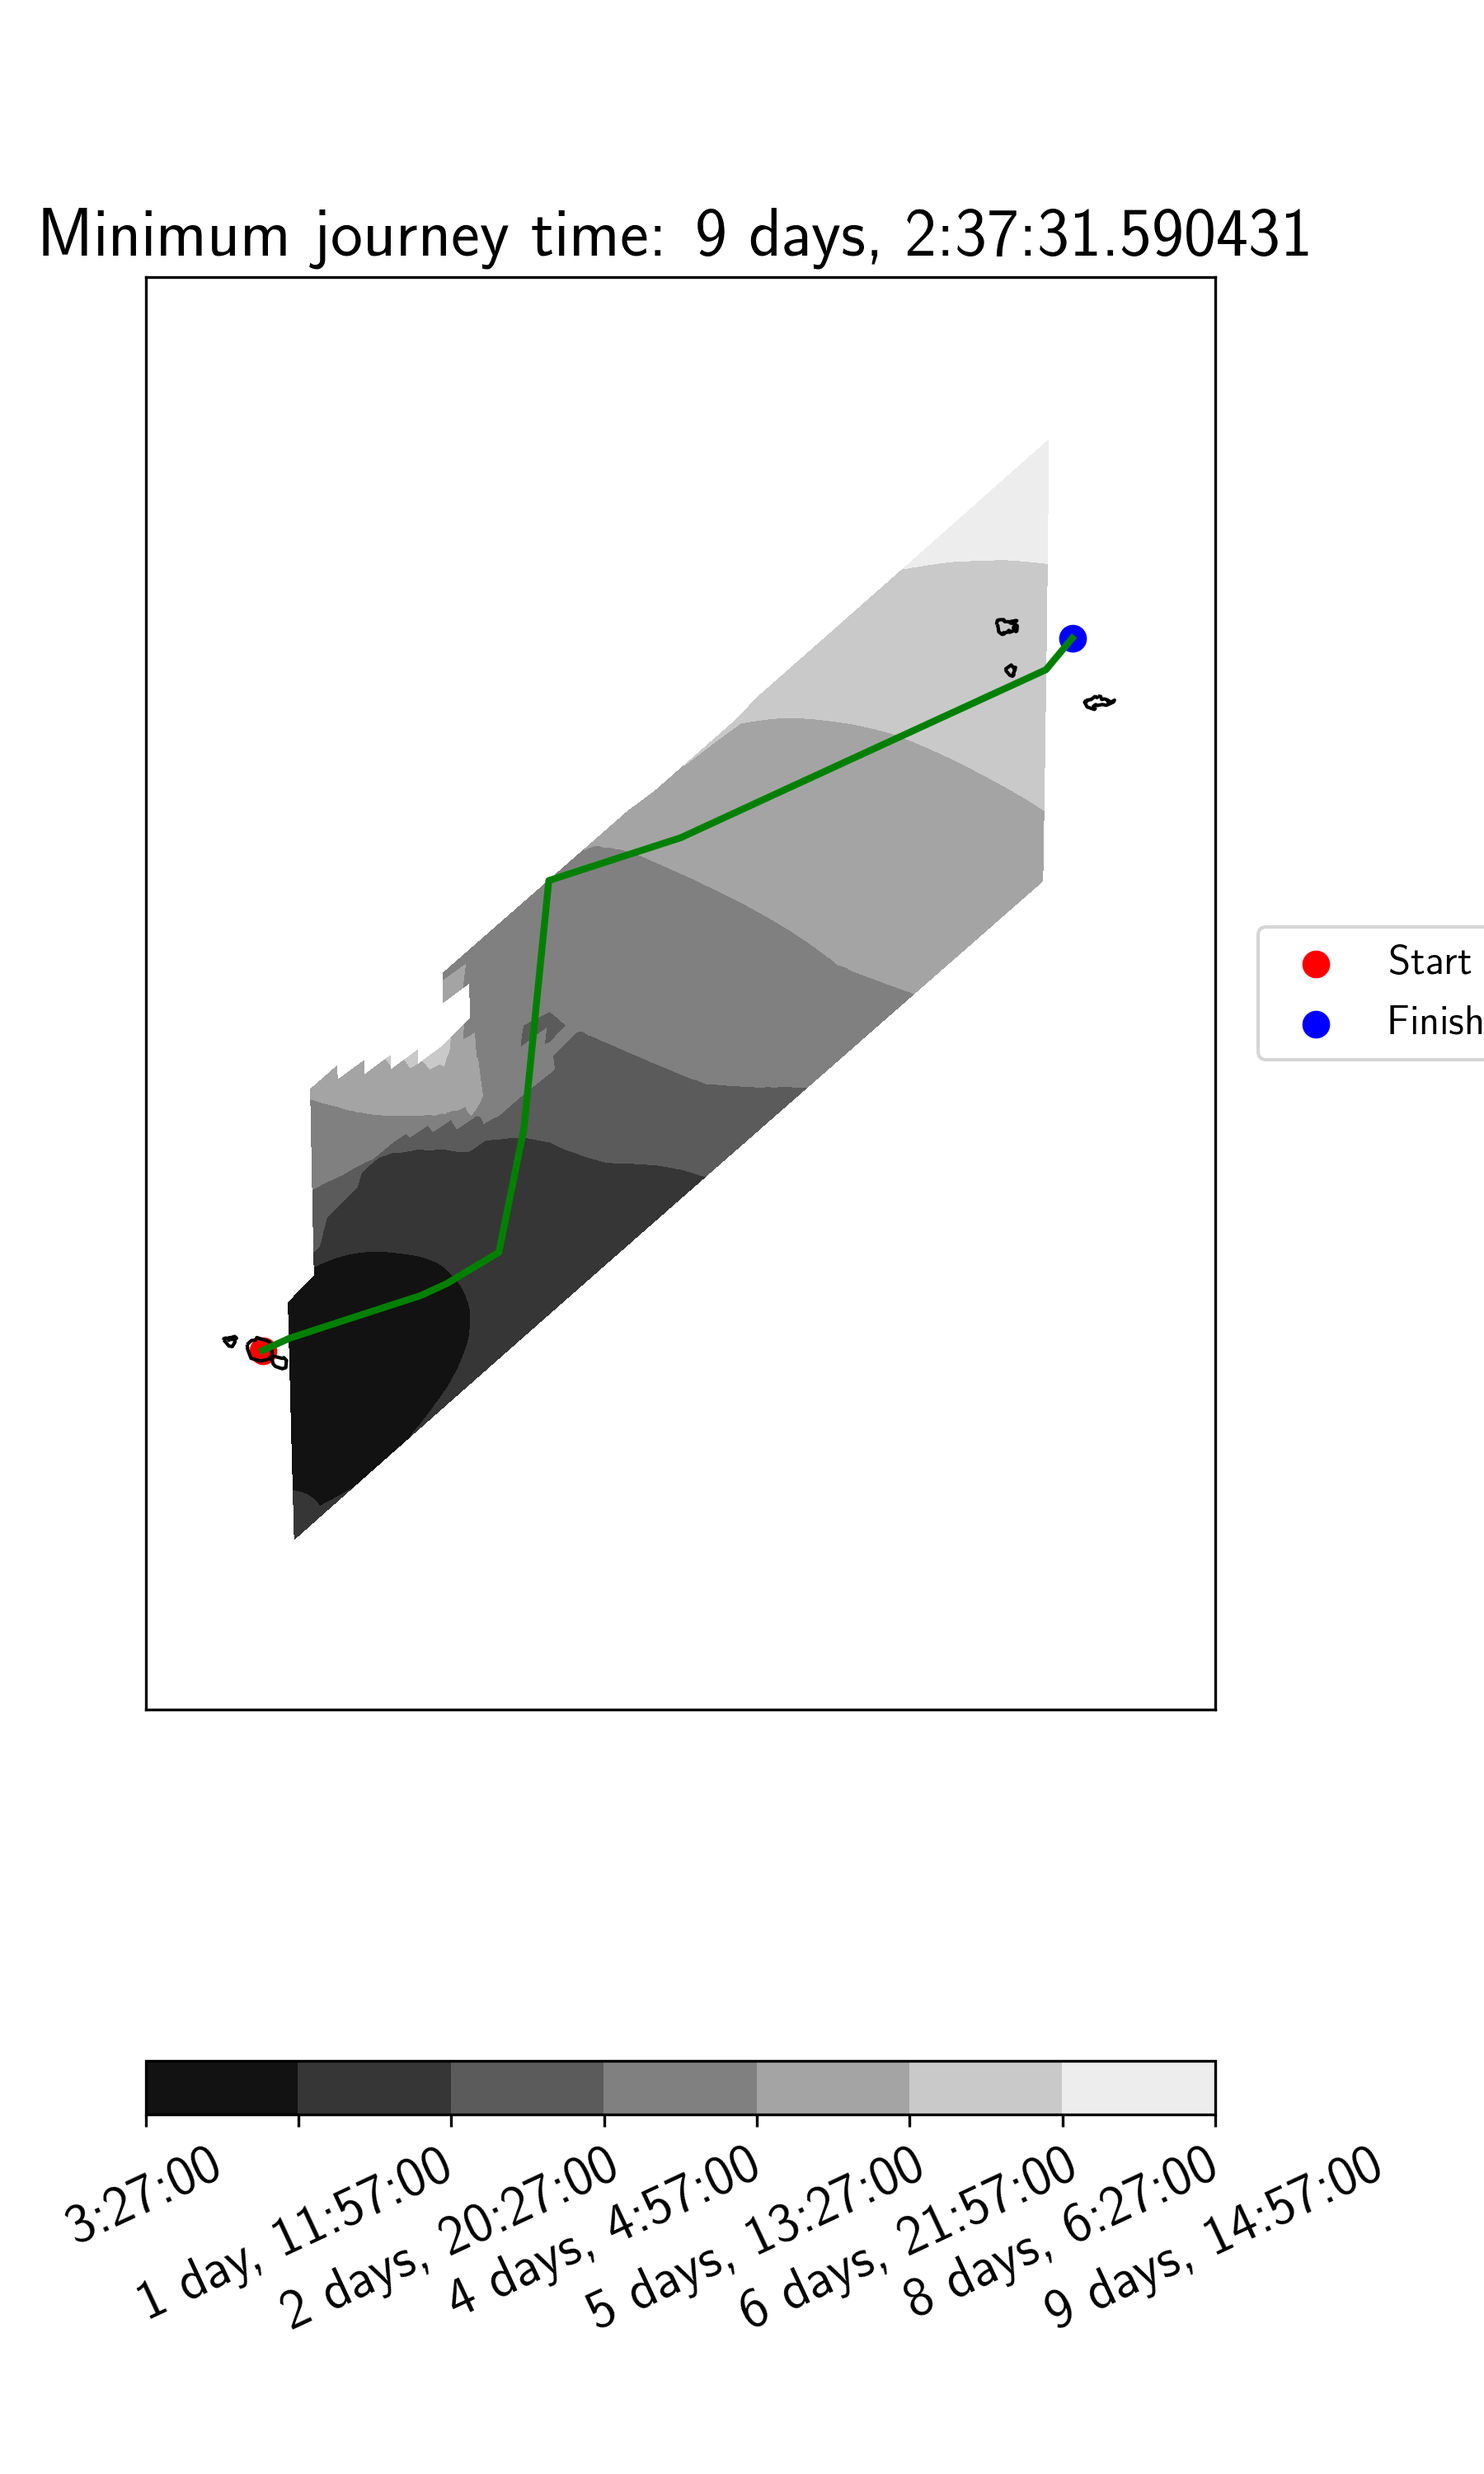
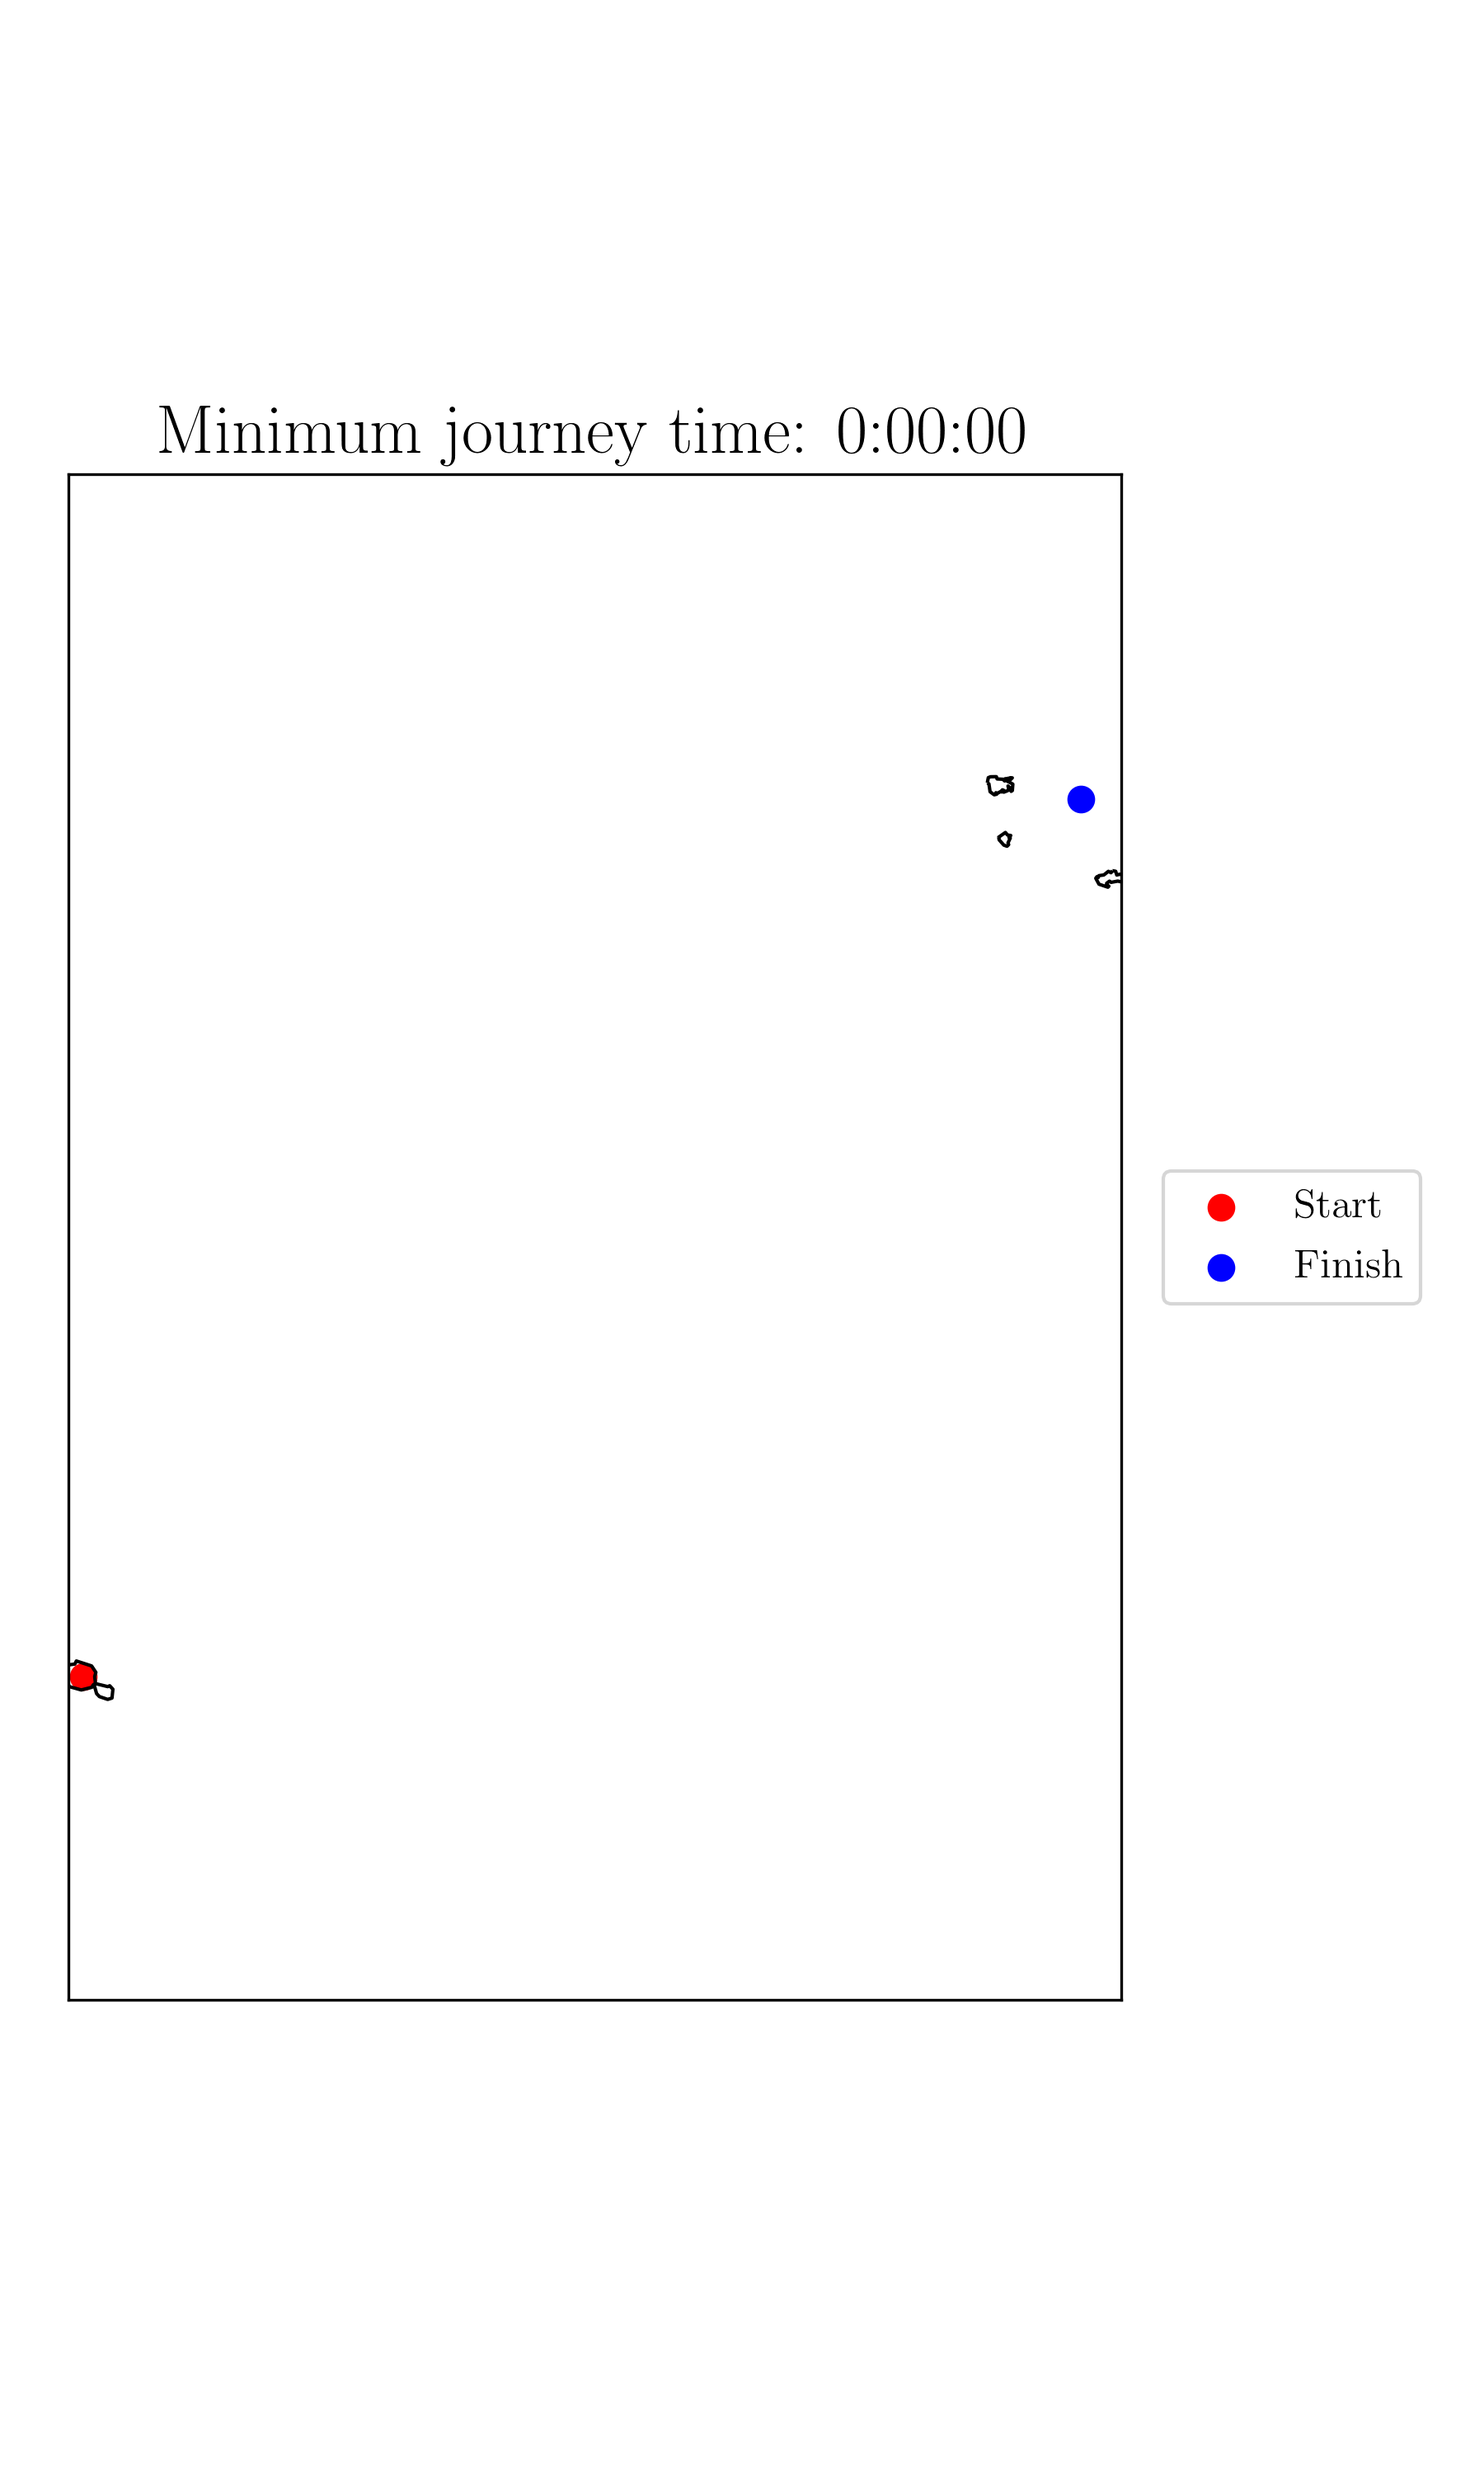
working failure function

diff --git a/sail_route/sail_routing.py b/sail_route/sail_routing.py
@@ -11,6 +11,10 @@ import datetime
 from datetime import datetime
 from datetime import timedelta
 import warnings
+# import numba
+#
+# cache = numba.caching.NullCache()
+# cache.flush()
 
 from mpl_toolkits.basemap import Basemap
 import matplotlib.pyplot as plt
@@ -23,14 +27,15 @@ from sail_route.weather.weather_assistance import return_domain, \
 warnings.filterwarnings("ignore")
 
 
-def recompile_nb_code():
-    this_module = sys.modules[__name__]
-    module_members = inspect.getmembers(this_module)
-
-    for member_name, member in module_members:
-        if hasattr(member, 'recompile') and hasattr(member, 'inspect_llvm'):
-            member.recompile()
-recompile_nb_code()
+# def recompile_nb_code():
+#     this_module = sys.modules[__name__]
+#     module_members = inspect.getmembers(this_module)
+#
+#     for member_name, member in module_members:
+#         if hasattr(member, 'recompile') and hasattr(member, 'inspect_llvm'):
+#             member.recompile()
+#
+# recompile_nb_code()
 
 
 plt.rcParams['savefig.dpi'] = 300
@@ -84,7 +89,6 @@ def min_time_calculate(route, time, craft, x, y,
     wh_interp = setup_interpolator(wh)
     wp_interp = setup_interpolator(wp)
     journey_time = 10**10
-    stop_r = 0
     for i in range(route.n_width):
         i_tws = tws_interp([x[0, i], y[0, i], time]).data
         i_twd = twd_interp([x[0, i], y[0, i], time]).data
@@ -96,7 +100,7 @@ def min_time_calculate(route, time, craft, x, y,
                                         x[0, i], y[0, i],
                                         i_tws, i_twd,
                                         i_wd, i_wh, i_wp,
-                                        craft, stop_r)
+                                        craft)
         if (travel_time == np.inf) | (land[0, i] is True):
             pass
         else:
@@ -116,7 +120,6 @@ def min_time_calculate(route, time, craft, x, y,
                 i_twd = twd_interp([x[i, j], y[i, j], time]).data
                 lifetime = utime - time
                 for k in range(route.n_width):
-                        stop_r = 0
                         if land[i+1, k] is True:
                             earl_time[i+1, k] == np.inf
                         else:
@@ -127,7 +130,6 @@ def min_time_calculate(route, time, craft, x, y,
                                                             i_tws, i_twd,
                                                             i_wd, i_wh, i_wp,
                                                             craft,
-                                                            stop_r,
                                                             lifetime)
                         if travel_time == np.inf:
                             pass
@@ -137,47 +139,44 @@ def min_time_calculate(route, time, craft, x, y,
                                 earl_time[i+1, k] = jt.timestamp()
                                 pf_vals[i+1, k] = pf
                                 pindxs[i+1, k] = indxs[i, j]
-                        if stop_r == route.n_width:
-                            print(stop_r)
-                            print("Routing failed. Go sailing another day.")
-                            break
-    stop_r = 0
     for i in range(route.n_width):
-        time = datetime.fromtimestamp(earl_time[-1, i])
-        i_tws = tws_interp([x[-1, i],
-                           y[-1, i], time]).data
-        i_twd = twd_interp([x[-1, i],
-                           y[-1, i], time]).data
-        travel_time, pf = cost_function(x[-1, i],
-                                        y[-1, i],
-                                        route.finish.long,
-                                        route.finish.lat,
-                                        i_tws, i_twd,
-                                        i_wd, i_wh, i_wp,
-                                        craft,
-                                        stop_r,
-                                        lifetime)
-        if travel_time == np.inf:
+        if earl_time[-1, i] == np.inf:
             pass
         else:
-            et = datetime.fromtimestamp(earl_time[-1, i]) + travel_time
-            if datetime.fromtimestamp(journey_time) > et:
-                journey_time = et.timestamp()
-                pf_vals[-1, i] = pf
-                end_node = indxs[-1, i]
-            if stop_r == route.n_width:
-                print("Routing failed. Go sailing another day.")
-                break
-    sp = shortest_path(indxs, pindxs, [end_node])
-    x_route, y_route = get_locs(indxs, sp, x, y)
-    x_route = np.hstack(([route.finish.long], x_route,
-                        [route.start.long]))
-    y_route = np.hstack(([route.finish.lat], y_route,
-                        [route.start.lat]))
-    if verb is True:
-        return journey_time, earl_time, pf_vals, x_route, y_route
+            time = datetime.fromtimestamp(earl_time[-1, i])
+            i_tws = tws_interp([x[-1, i],
+                               y[-1, i], time]).data
+            i_twd = twd_interp([x[-1, i],
+                               y[-1, i], time]).data
+            travel_time, pf = cost_function(x[-1, i],
+                                            y[-1, i],
+                                            route.finish.long,
+                                            route.finish.lat,
+                                            i_tws, i_twd,
+                                            i_wd, i_wh, i_wp,
+                                            craft,
+                                            lifetime)
+            if travel_time == np.inf:
+                pass
+            else:
+                et = datetime.fromtimestamp(earl_time[-1, i]) + travel_time
+                if datetime.fromtimestamp(journey_time) > et:
+                    journey_time = et.timestamp()
+                    pf_vals[-1, i] = pf
+                    end_node = indxs[-1, i]
+    if np.isfinite(earl_time[-1, :]) is not True:
+        return time.timestamp(), earl_time, pf_vals, route.start.long, route.start.lat
     else:
-        return journey_time, x_route, y_route
+        sp = shortest_path(indxs, pindxs, [end_node])
+        x_route, y_route = get_locs(indxs, sp, x, y)
+        x_route = np.hstack(([route.finish.long], x_route,
+                            [route.start.long]))
+        y_route = np.hstack(([route.finish.lat], y_route,
+                            [route.start.lat]))
+        if verb is True:
+            return journey_time, earl_time, pf_vals, x_route, y_route
+        else:
+            return journey_time, x_route, y_route
 
 
 def min_vals(x, y, et):
@@ -213,7 +212,7 @@ def timestamp_to_delta_time(start, x):
 def plot_mt_route(start, route, x, y, x_r, y_r, et, jt, fname):
     """Plot minimum time output from routing simulations."""
     vt = datetime.fromtimestamp(jt) - start
-    ul = jt + vt.total_seconds()/6
+    # ul = jt + vt.total_seconds()/6
     add_param = 2
     res = 'i'
     plt.figure(figsize=(6, 10))
@@ -233,13 +232,16 @@ def plot_mt_route(start, route, x, y, x_r, y_r, et, jt, fname):
     map.scatter(r_f_x, r_f_y, color='blue', s=50, label='Finish')
     x_r, y_r = map(x_r, y_r)
     map.plot(x_r, y_r, color='green')
-    x, y = map(x, y)
-    ctf = map.contourf(x, y, et, cmap='gray')
-    cbar = plt.colorbar(ctf, orientation='horizontal')
-    y_tick_labs = [timestamp_to_delta_time(start, x) for x in
-                   np.linspace(et[et < np.inf].min(),
-                               et[et < np.inf].max(), 9)]
-    cbar.ax.set_xticklabels(y_tick_labs, rotation=25)
+    if et[et < np.inf].size == 0:
+        pass
+    else:
+        x, y = map(x, y)
+        ctf = map.contourf(x, y, et, cmap='gray')
+        y_tick_labs = [timestamp_to_delta_time(start, x) for x in
+                       np.linspace(et[et < np.inf].min(),
+                                   et[et < np.inf].max(), 9)]
+        cbar = plt.colorbar(ctf, orientation='horizontal')
+        cbar.ax.set_xticklabels(y_tick_labs, rotation=25)
     plt.legend(bbox_to_anchor=(1.04, 0.5), loc="center left",
                borderaxespad=0)
     plt.tight_layout()

diff --git a/analysis/canoe_voyaging.py b/analysis/canoe_voyaging.py
@@ -7,7 +7,7 @@ thomas.dickson@soton.ac.uk
 from context import sail_route
 import numpy as np
 from datetime import datetime
-from canoe_voyaging_util import datetime_range, load_tongiaki_perf
+from canoe_voyaging_utils import datetime_range, load_tongiaki_perf
 from sail_route.weather.weather_assistance import return_domain
 from sail_route.sail_routing import Location, Route, \
                                    min_time_calculate, plot_mt_route, \
@@ -22,7 +22,7 @@ def run_simulation_over_days():
     tahiti = Location(-149.426, -17.651)
     marquesas = Location(-139.33, -9)
     craft = load_tongiaki_perf()
-    n_nodes = 30
+    n_nodes = 5
     n_width = n_nodes*4
     print("Nodes in rank: ", n_nodes)
     print("Nodes in width: ", n_width)
@@ -38,7 +38,7 @@ def run_simulation_over_days():
     waves_fname = pyroute_path + "analysis/poly_data/data_dir/wave_data.nc"
     dia_path = pyroute_path + "analysis/poly_data"
     sd = datetime(2000, 7, 1, 0, 0)
-    ed = datetime(2000, 7, 10, 0, 0)
+    ed = datetime(2000, 7, 2, 0, 0)
     dt = [d for d in datetime_range(sd, ed, {'days': 1, 'hours': 0})]
     for t in dt:
         x, y, land = return_co_ords(r.start.long, r.finish.long,
@@ -51,7 +51,7 @@ def run_simulation_over_days():
         vt = datetime.fromtimestamp(jt) - t
         print("Journey time is: ", vt)
         plot_mt_route(t, r, x, y, x_r, y_r, et, jt, dia_path+"/"+str(t))
-        plot_reliability_route(t, r, x, y, pf_vals, jt, dia_path+"/"+str(t))
+        # plot_reliability_route(t, r, x, y, pf_vals, jt, dia_path+"/"+str(t))
 
 
 def grid_error():

diff --git a/sail_route/performance/cost_function.py b/sail_route/performance/cost_function.py
@@ -49,23 +49,30 @@ def dir_to_relative(x, y):
     return np.absolute((x - y + 180) % 360 - 180)
 
 
+@jit(fastmath=True, nogil=True, cache=True)
+def failure_criteria(craft, time, speed, tws, twa, wd, wh, wp):
+    """Craft failure model. Returns an array of booleans."""
+    pf = 0.0
+    if (wd < 30.0) | (wh > 1.0):
+        return True, pf
+    if (speed < 0.2) | (twa < 30) | (pf > craft.apf):
+        return True, pf
+    else:
+        return False, pf
+
+
 @jit(cache=True, nogil=True)
 def cost_function(x1, y1, x2, y2, tws, twd, i_wd, i_wh, i_wp,
-                  craft, stop_r, lifetime=None):
+                  craft, lifetime=None):
     """Calculate the time taken to transit between two locations."""
     dist, bearing = haversine(x1, y1, x2, y2)
     twa = dir_to_relative(bearing, twd)
+    wave_dir = dir_to_relative(bearing, i_wd)
     speed = craft.return_perf(np.abs(twa), tws)
-    # wave_dir = dir_to_relative(bearing, i_wd)
-    # if wave_dir < 30.0:
-    #     speed = 0.0
-    # if lifetime is not None:
-    #     pf = craft_failure_model(lifetime, tws, twa)
-    # else:
+    fc, pf = failure_criteria(craft, lifetime, speed, tws, twa,
+                              wave_dir, i_wh, i_wp)
     pf = 0.0
-    if (speed < 0.2) | (twa < 30) | (pf > craft.accept_pf):
-        # print(twa, " ", tws, " ", speed)
-        stop_r += 1
+    if fc is True:
         return np.inf, pf
     else:
         return datetime.timedelta(hours=np.float64(dist/speed)), pf

diff --git a/analysis/canoe_voyaging_utils.py b/analysis/canoe_voyaging_utils.py
@@ -4,6 +4,7 @@ Thomas Dickson
 thomas.dickson@soton.ac.uk
 15/05/2018
 """
+import numpy as np
 from datetime import timedelta
 from context import sail_route
 from sail_route.weather.weather_assistance import plot_wind_data, generate_gif
@@ -30,7 +31,8 @@ def plot_wind():
 def load_tongiaki_perf():
     """Load predicted Tongiaki voyaging canoe performance."""
     pyroute_path = "/home/thomas/Documents/pyroute/"
-    perf = np.genfromtxt(pyroute_path+"/analysis/poly_data/data_dir/tongiaki_vpp.csv", delimiter=",")
+    perf = np.genfromtxt(pyroute_path+"/analysis/poly_data/data_dir/tongiaki_vpp.csv",
+                  delimiter=",")
     tws = np.array([4, 5, 6, 7, 8, 9, 10, 12, 14, 16, 20])
     twa = np.array([0, 60, 70, 80, 90, 100, 110, 120])
-    return polar(twa, tws, perf, 0.0)
+    return polar(twa, tws, perf, 0.0, 0.0)
